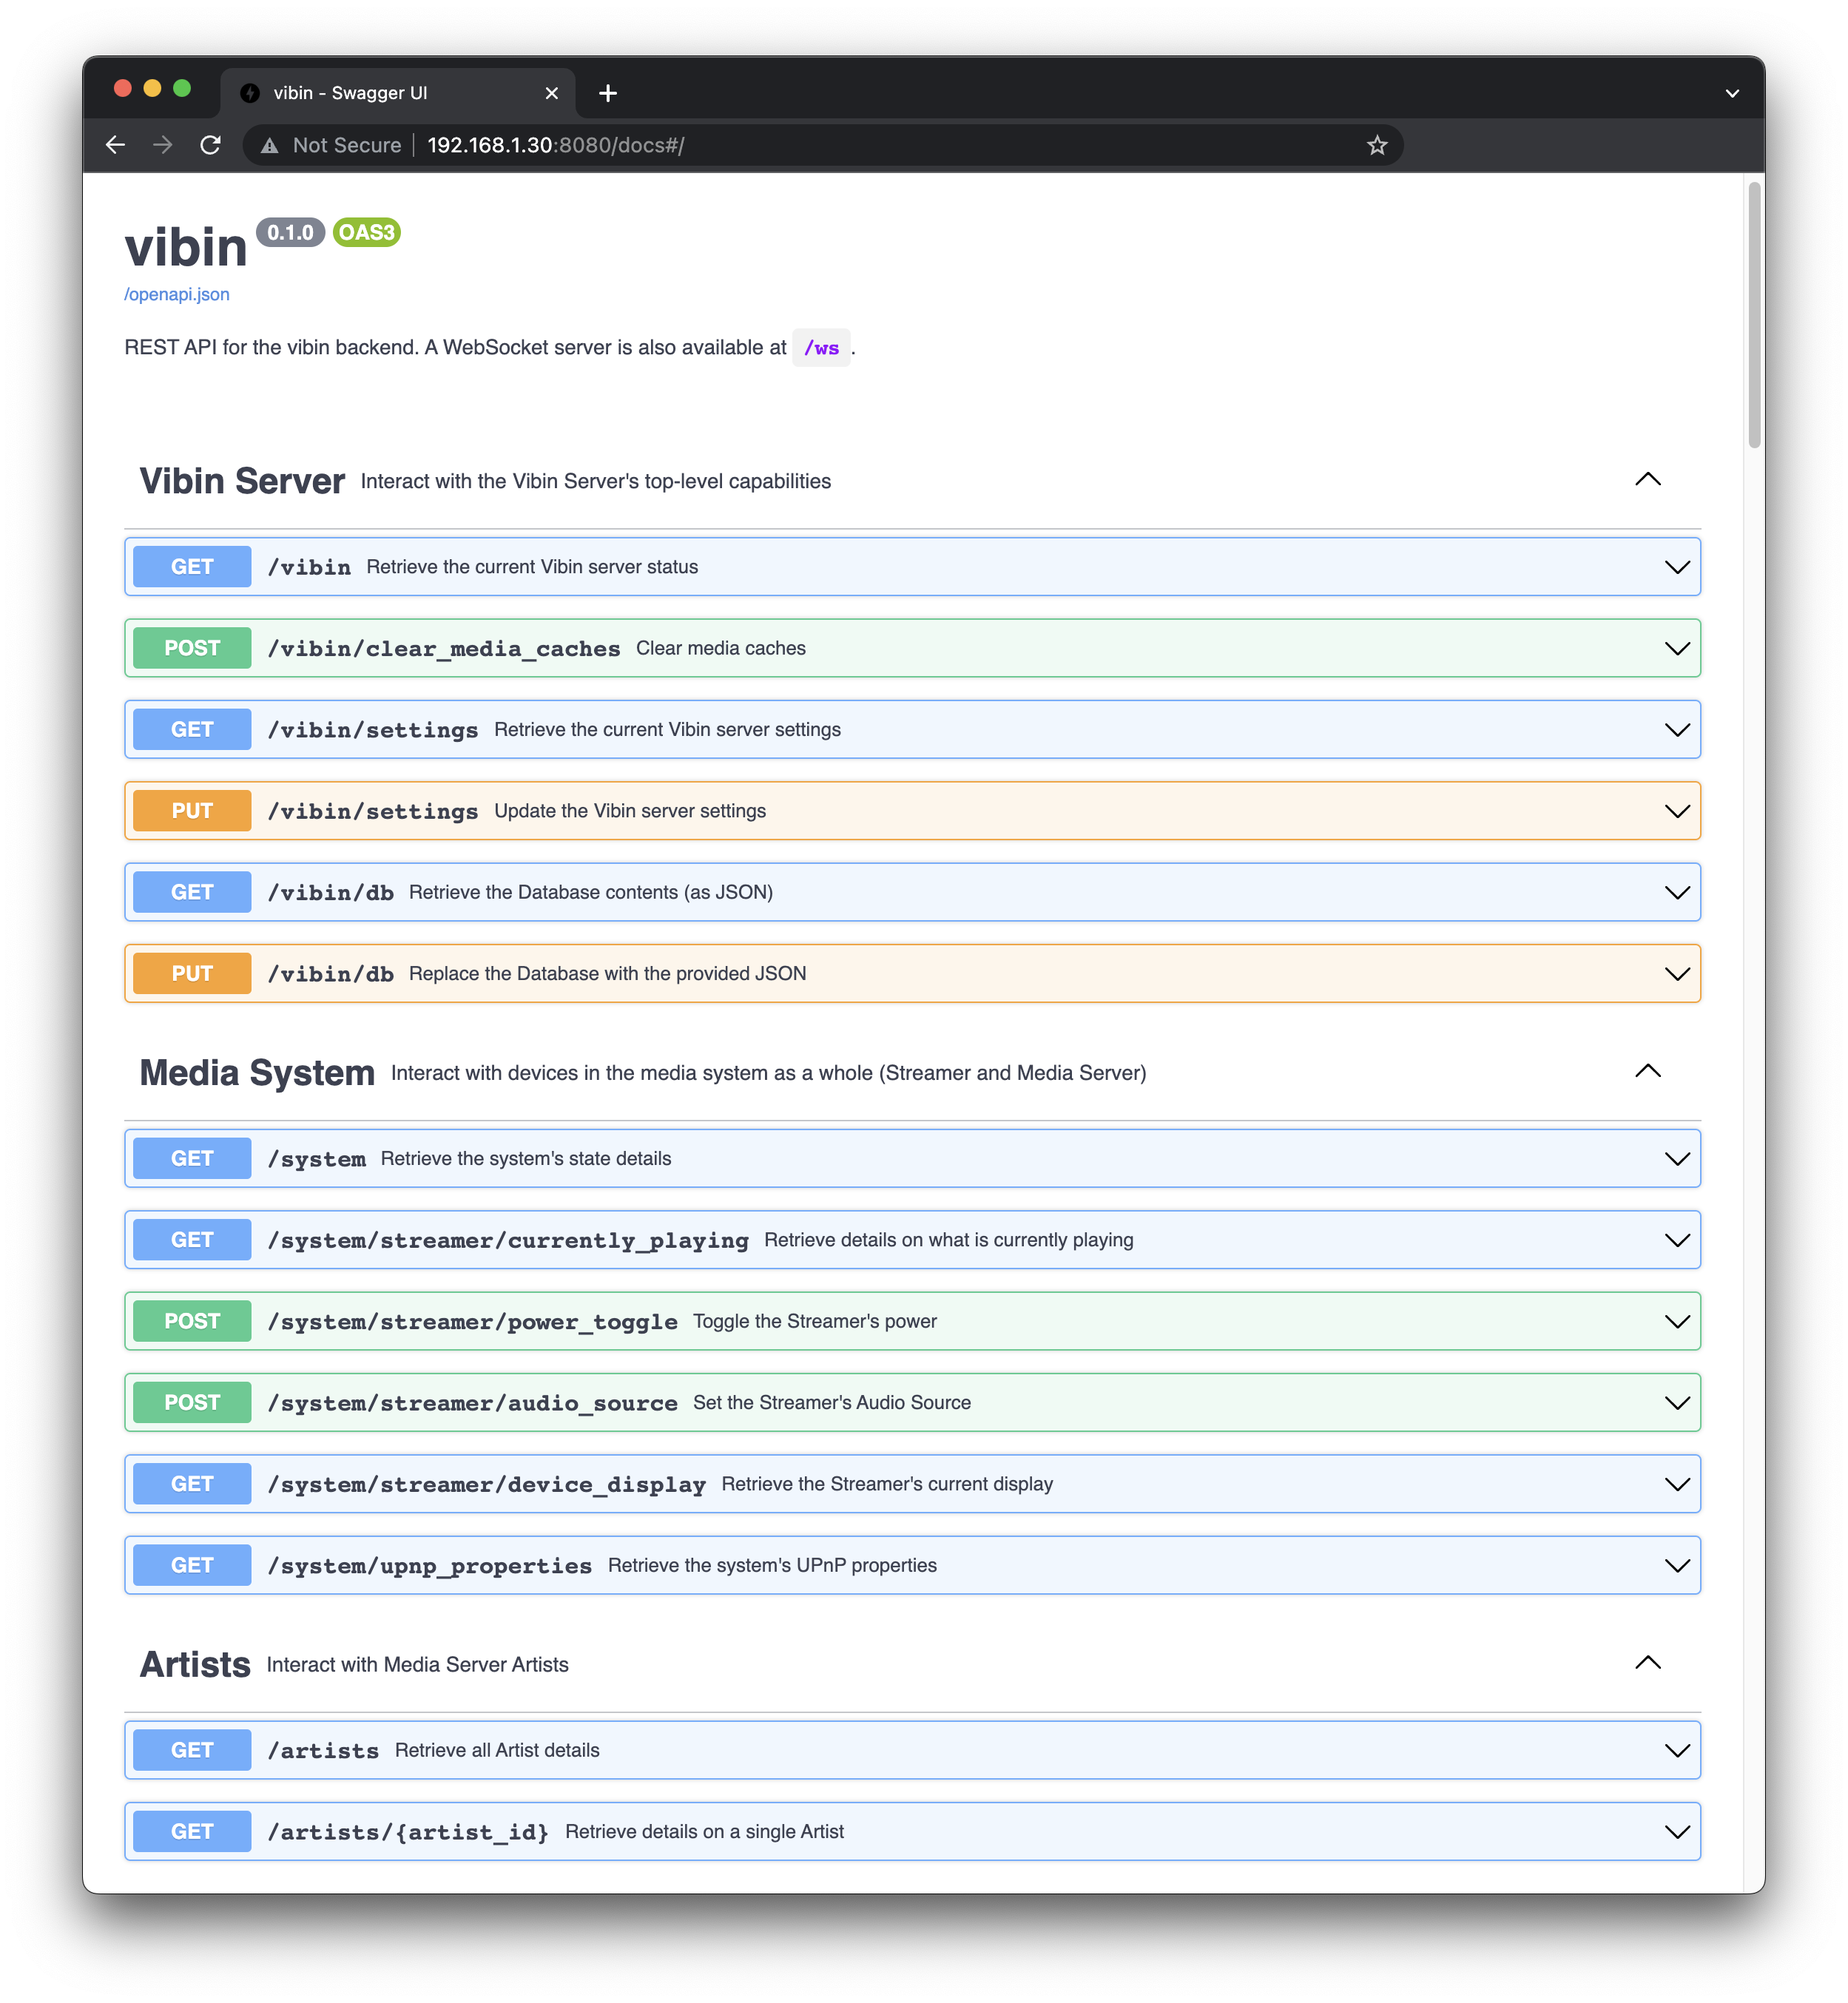
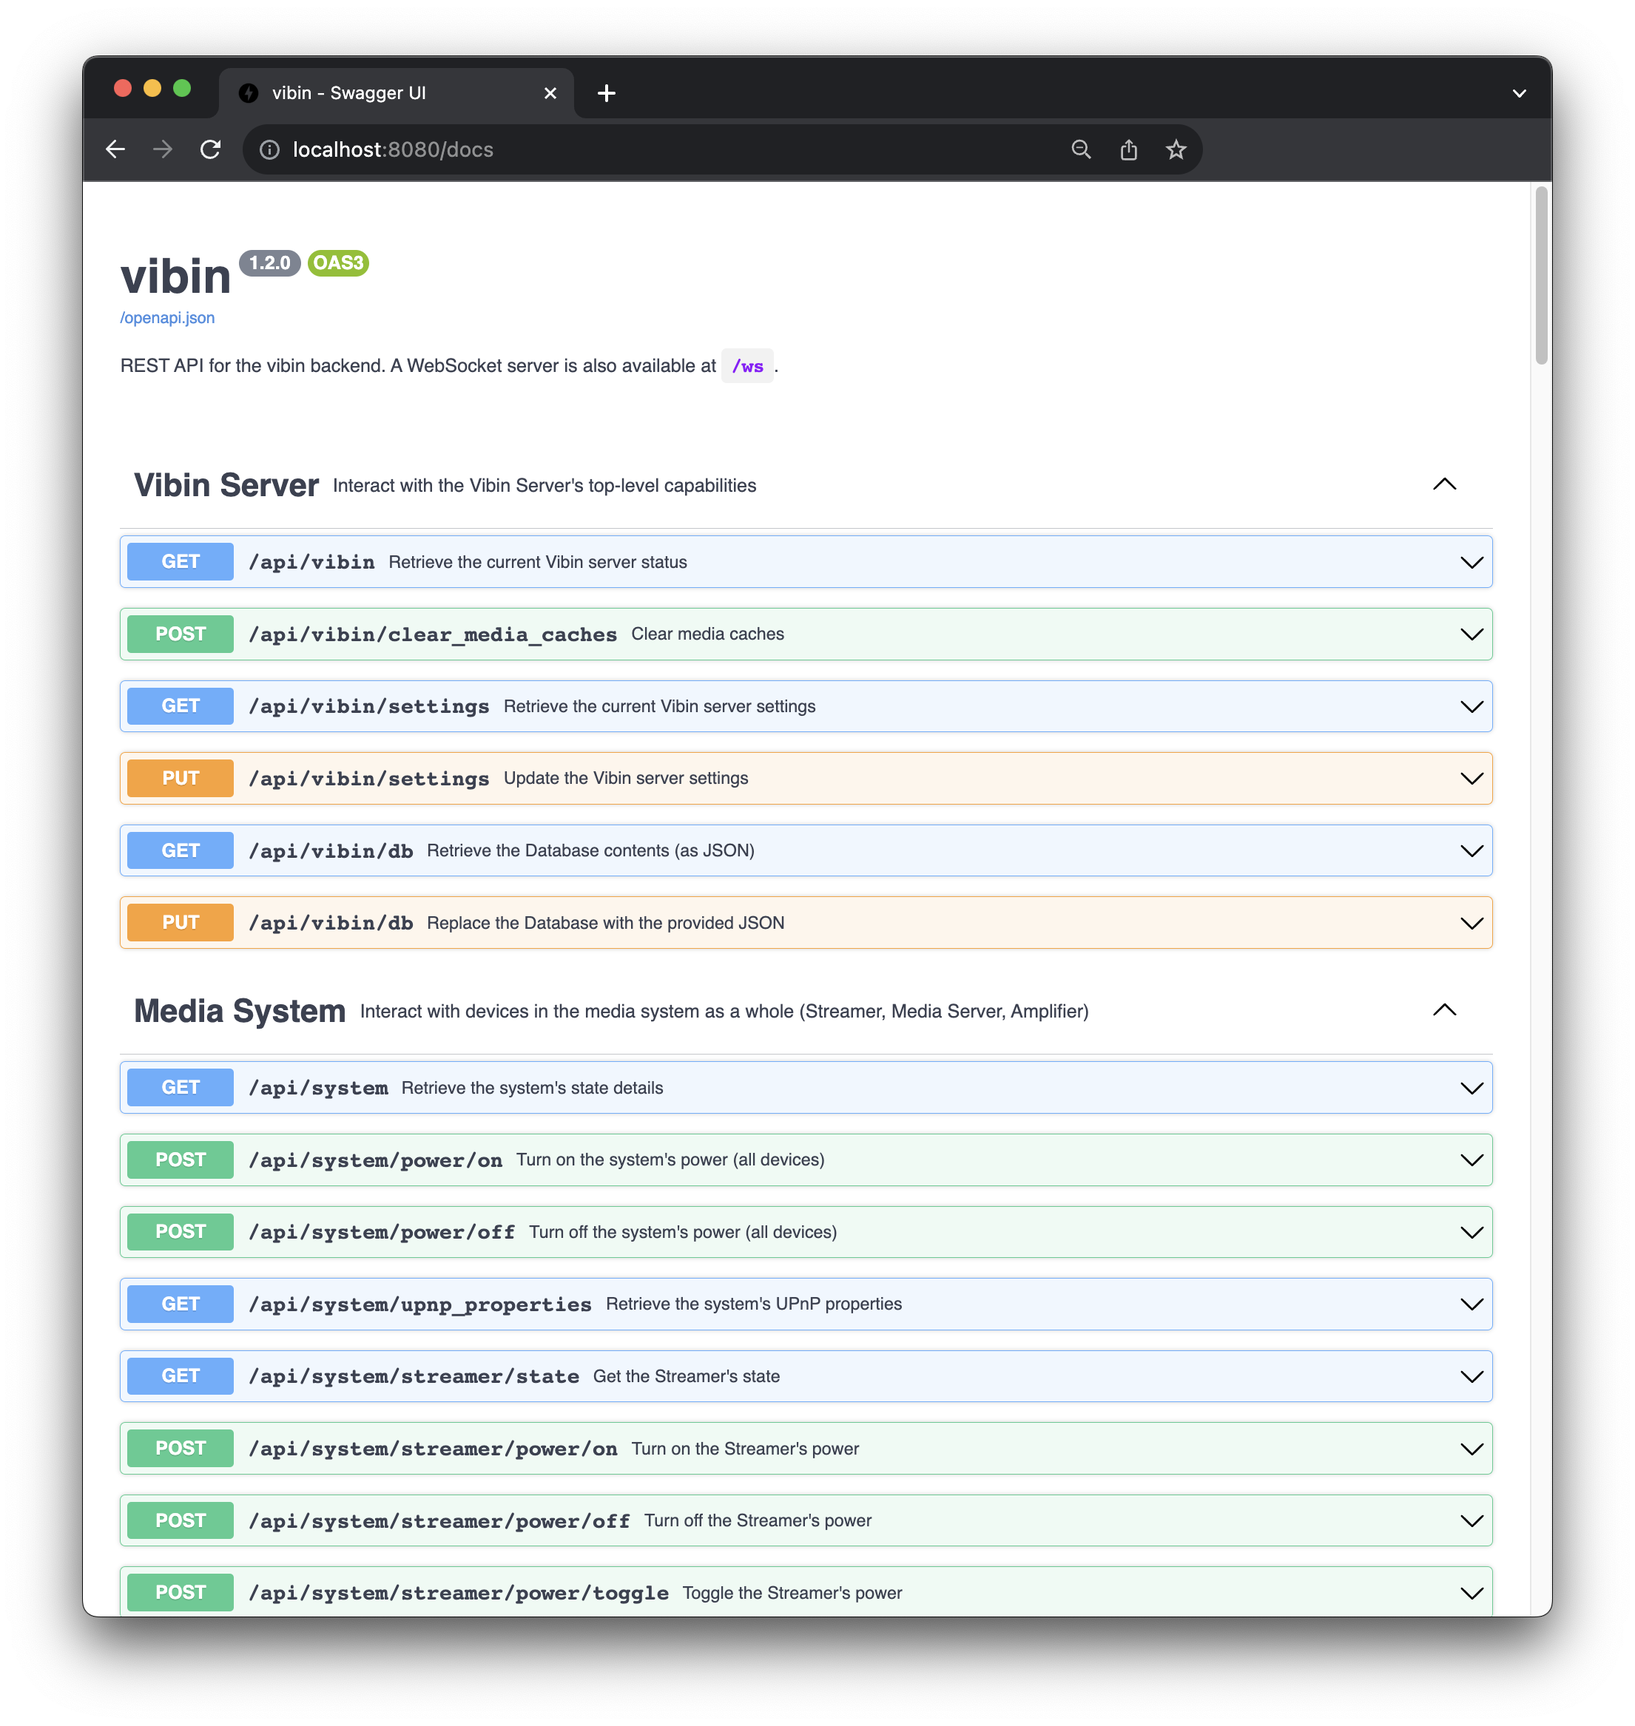
Update README (#107)

diff --git a/README_DEV.md b/README_DEV.md
@@ -27,12 +27,12 @@ The main responsibilities of `vibin` are:
    etc).
 1. **Persist information** such as user-defined Playlists, Favorites, lyrics, etc.
 1. Expose:
-   * **A REST API**.
+   * **A REST API** under `/api`.
      * To retrieve media metadata.
      * To perform actions on the streamer, media server, and amplifier.
      * To receive UPnP events from the streamer, media server, or amplifier; and to then forward the
        events on to the target interface implementation.
-   * **A WebSocket server** (to send live updates to any connected clients).
+   * **A WebSocket server** at `/ws` (to send live updates to any connected clients).
    * **The UI's static files** (see [vibinui]).
    * **A proxy for the media server** (mostly for album art).
      * This is only required when one or more clients will be accessing `vibin` from a different
@@ -145,7 +145,11 @@ The main hub of `vibin` is the [`Vibin()`](vibin/base.py) class, which:
 The REST API is mostly a thin API layer that sits in front of `Vibin`. The WebSocket server
 subscribes to any `Vibin` updates, which it then passes on to any connected clients.
 
-#### WebSocket message types
+#### WebSocket server
+
+The WebSocket server is hosted at `/ws`.
+
+##### WebSocket message types
 
 The following message types are published:
 
@@ -192,11 +196,12 @@ is shown below:
 
 #### REST API
 
-The REST API's interactive swagger is available at `http://hostname:8080/docs`.
+The REST API is hosted under `http://hostname:8080/api`. Its interactive swagger is available at
+`http://hostname:8080/docs`.
 
 ![Swagger]
 
-The top-level REST routes include:
+The top-level REST routes (all nested under the `/api` prefix) include:
 
 | Route               | Description                                                                                   |
 |---------------------|-----------------------------------------------------------------------------------------------|

diff --git a/README.md b/README.md
@@ -200,8 +200,8 @@ waveforms will be automatically generated from local media on play.
 `vibin` provides three interfaces for interaction:
 
 1. Command line interface (CLI).
-2. REST API.
-3. WebSocket server.
+2. REST API (under `/api`).
+3. WebSocket server (at `/ws`).
 
 > These interfaces are intended primarily for the Web UI. Most installs won't need to use more than
 > `vibin installui` and `vibin serve`.
@@ -245,7 +245,8 @@ vibin serve --help
 > The REST API can be ignored by most users.
 
 `vibin` exposes a REST API. When `vibin serve` is running, the REST API documentation can be found
-at `http://hostname:8080/docs`. The API documentation is interactive. 
+at `http://hostname:8080/docs` with the API endpoints being found under `http://hostname:8080/api`.
+The API documentation is interactive. 
 
 ![Swagger]
 
@@ -253,8 +254,8 @@ at `http://hostname:8080/docs`. The API documentation is interactive.
 
 > The WebSocket server can be ignored by most users.
 
-`vibin` also exposes a WebSocket server. Connected clients will receive messages describing updates
-to the backend as they happen.
+`vibin` also exposes a WebSocket server at `http://hostname:8080/ws`. Connected clients will receive
+messages describing updates to the backend as they happen.
 
 ## Database
 
